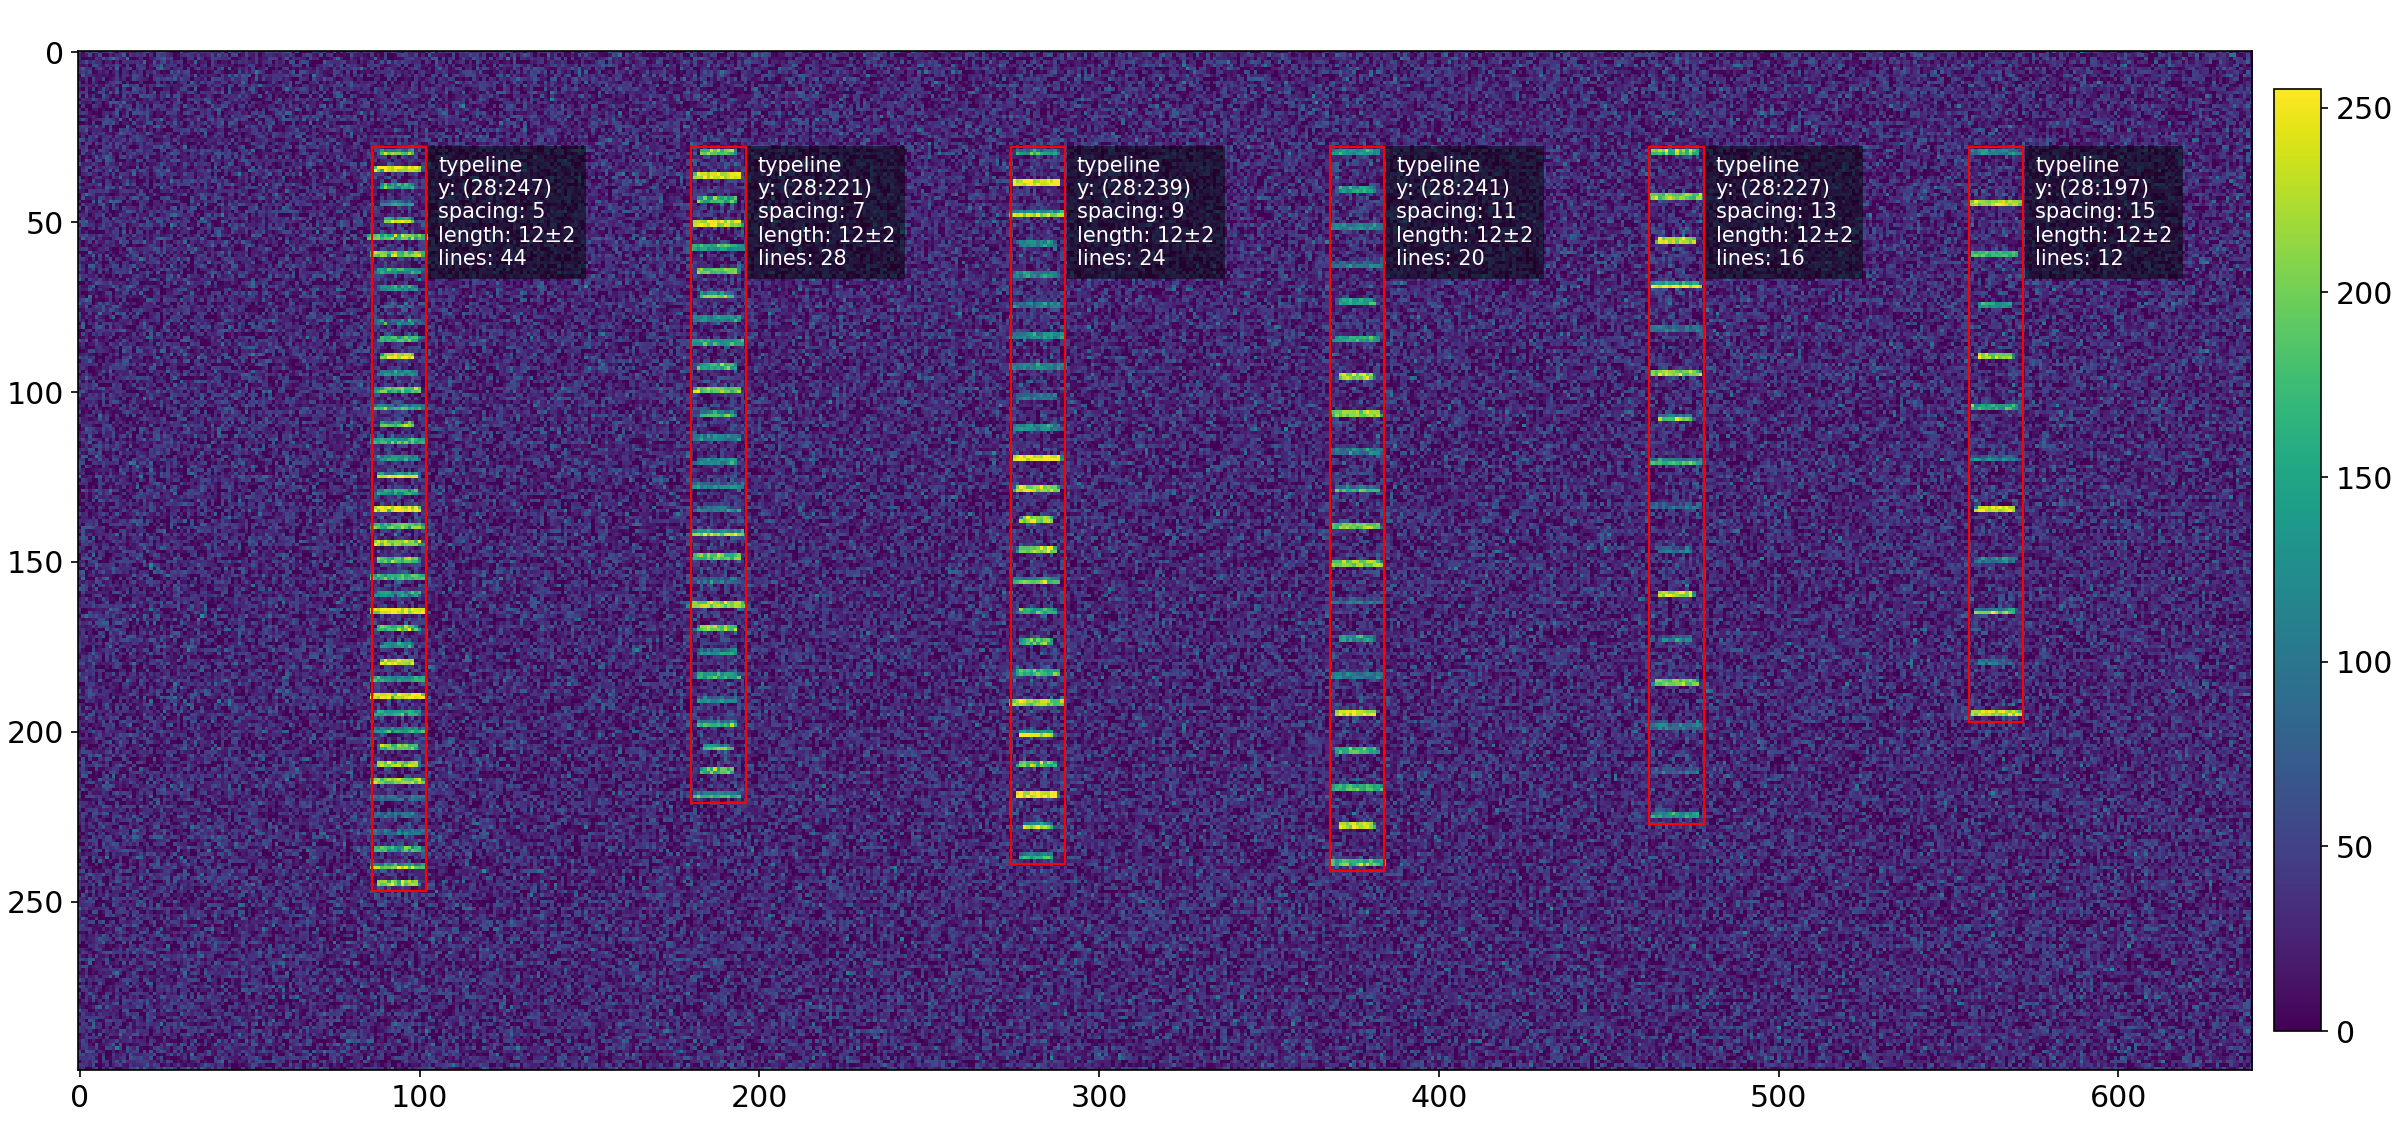
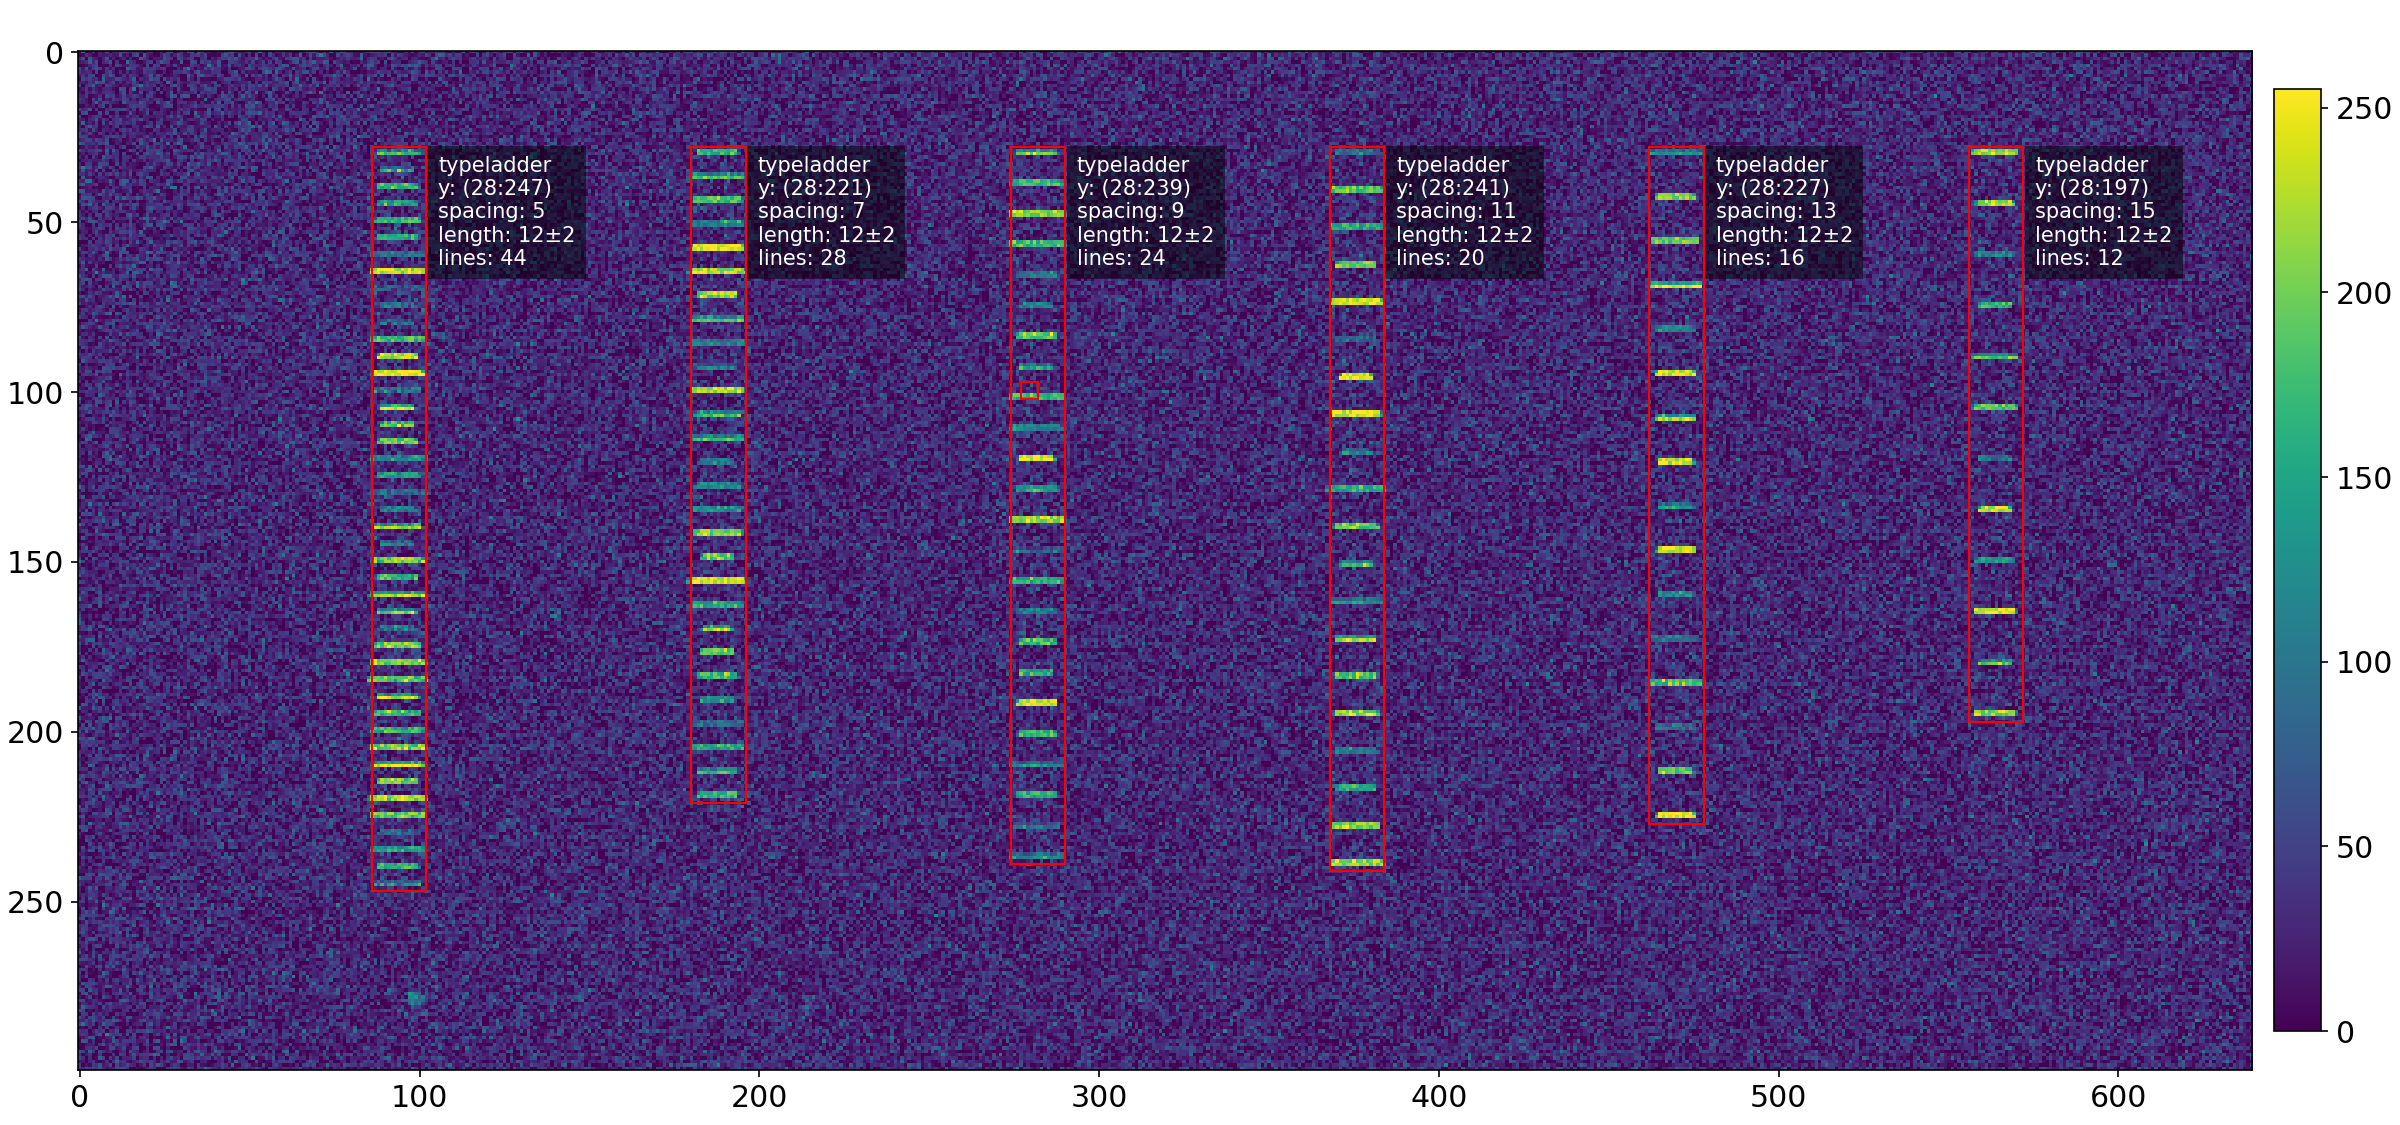
Changement de radius à diamètre des étoiles

diff --git a/ImageSynthetique.py b/ImageSynthetique.py
@@ -1,3 +1,7 @@
+import matplotlib.patches as patches
+import seaborn as sns
+import tensorflow as tf
+import cv2
 import numpy as np
 import matplotlib.pyplot as plt
 params = {'legend.fontsize': 'x-large',
@@ -10,11 +14,7 @@ params = {'legend.fontsize': 'x-large',
           'figure.constrained_layout.use': True}
 
 plt.rcParams.update(params)
-import cv2
-import tensorflow as tf
-import seaborn as sns
-import matplotlib.patches as patches
-
+tf.compat.v1.logging.set_verbosity(tf.compat.v1.logging.ERROR)
 
 class Image:
     """Docstring for Image class, with methods for generating a custom image.
@@ -97,7 +97,8 @@ class Image:
                     tuple(start + length_var), tuple(end - length_var),
                     intensity, thickness)
             # Store line coordinates
-            self.lines[-1][line][:, :] = np.stack((start + length_var, end - length_var))
+            self.lines[-1][line][:, :] = np.stack((start + length_var,
+                                                    end - length_var))
             start[1] += spacing
             end[1] += spacing
         self.lines[-1] //= times
@@ -114,7 +115,7 @@ class Image:
         # self.image = cv2.bitwise_and(self.image, self.image, mask = mask_2)
         self.image = cv2.add(self.image, image_resize)
         self.clip()
-        self.objects.append({'type': 'line',
+        self.objects.append({'type': 'ladder',
                             'coords': (rect_top, rect_bottom),
                             'spacing': spacing // times,
                             'length': length // times,
@@ -122,21 +123,31 @@ class Image:
                             'lines': lines})
         pass
 
-    def add_star(self, center, radius, intensity):
+    def add_star(self, center, diameter, intensity):
         times = 4
-        coords = (tuple(np.array(center) - radius), tuple(np.array(center) + radius))
-        self.objects.append({
-                            'type': 'star',
+        intensity = int(intensity*255)
+        radius = diameter / 2
+        radius_ceil = int(np.ceil(radius))
+        radius_floor = int(np.floor(radius))
+
+        top = tuple(np.array(center) - radius_ceil)
+        bottom = tuple(np.array(center) + radius_floor)
+        coords = (top, bottom)
+        self.objects.append({'type': 'star',
                             'center': center,
-                            'radius': radius,
+                            'diameter': diameter,
                             'coords': coords})
-        big_image = np.zeros((radius*times*4, radius*times*4), dtype='float32')
-        big_image = cv2.circle(big_image, (radius*times*2, radius*times*2), radius*times, intensity, -1)
-        circle = cv2.resize(big_image, (radius*4, radius*4))
-        slice = [el-radius for el in coords[0]] + [el+radius for el in coords[1]]
-        self.image[slice[0]:slice[2], slice[1]:slice[3]] = cv2.add(self.image[slice[0]:slice[2], slice[1]:slice[3]], circle)
+        big_image = np.zeros((2*diameter*times, 2*diameter*times), dtype='float32')
+        big_image = cv2.circle(big_image, (diameter*times, diameter*times),
+                            diameter*times//2, intensity, -1)
+        circle = cv2.resize(big_image, (diameter*2, diameter*2))
+        x_m = coords[0][0] - radius_ceil
+        x_p = coords[1][0] + radius_floor
+        y_m = coords[0][1] - radius_ceil
+        y_p = coords[1][1] + radius_floor
+        self.image[x_m:x_p, y_m:y_p] = cv2.add(self.image[x_m:x_p, y_m:y_p], circle)
         _, segmentation = cv2.threshold(circle, intensity-1, 255, cv2.THRESH_BINARY)
-        self.segmentation[:, :, 1] = segmentation
+        self.segmentation[x_m:x_p, y_m:y_p, 1] = segmentation
         self.clip()
         pass
 
@@ -157,12 +168,21 @@ class Image:
             plt.gca().add_patch(patches.Rectangle(pt, w, h,
                                                 linewidth=1, edgecolor='r',
                                                 facecolor='none'))
+            # Display type
             text = 'type'+ str(obj['type'])+'\n'
-            if obj['type'] == 'line':
+            if obj['type'] == 'ladder':
                 if with_coords:
-                    text += 'y: ('+ str(obj['coords'][0][1])+':'+str(obj['coords'][1][1])+')\n'
+                    # Display minimum vertical coordinate
+                    text += 'y: ('+ str(obj['coords'][0][1])+':'
+                    # and maximum
+                    text += str(obj['coords'][1][1])+')\n'
+                # Display spacing in pixels
                 text += 'spacing: '+str(obj['spacing'])+'\n'
-                text += 'length: '+str(obj['length'])+'±'+str(obj['length_var'])+'\n'
+                # Display length
+                text += 'length: '+str(obj['length'])
+                # Random variation in length (maximum in each sense)
+                text += '±'+str(obj['length_var'])+'\n'
+                # Number of lines
                 text += 'lines: '+str(obj['lines'])
             if obj['type'] == 'star':
                 text = ''
@@ -182,28 +202,24 @@ class Image:
         windows_h = (self.width - window_size) // pad_h +1
         windows_v = (self.height - window_size) // pad_v +1
         crops = np.zeros((windows_v, windows_h, window_size, window_size))
-        labels = np.zeros((windows_v, windows_h))
+        labels = np.zeros((windows_v, windows_h, self.classes))
         segmentation_crops = np.zeros((windows_v, windows_h, window_size, window_size, self.classes))
         number = np.zeros_like(labels)
         max = self.mask.max()
         for j in range(windows_v):
-            y_top = j*pad_v
-            y_bottom = j*pad_v + window_size
+            y_m = j*pad_v
+            y_p = j*pad_v + window_size
             for i in range(windows_h):
-                x_top = i*pad_h
-                x_bottom = i*pad_h + window_size
-                crop = self.image[y_top:y_bottom, x_top:x_bottom]
+                x_m = i*pad_h
+                x_p = i*pad_h + window_size
+                crop = self.image[y_m:y_p, x_m:x_p]
                 crops[j, i, :, :] = crop
-                mask_crop = self.mask[y_top:y_bottom, x_top:x_bottom]
+                mask_crop = self.mask[y_m:y_p, x_m:x_p]
                 # if mask_crop[mask_crop>0].size > threshold:
                 #     labels[j,i] = 1
                 # labels[j,i] = mask_crop[mask_crop>0].size
                 if mask_crop[mask_crop > 0].size:
-                    lower = ([x_top, y_top] < self.lines[-1]).any(axis=1).all(axis=1)
-                    higher = (self.lines[-1] < [x_bottom, y_bottom]).any(axis=1).all(axis=1)
-                    slice = np.logical_and(lower, higher)
-                    number[j, i] = self.lines[-1][slice].shape[0]
-                    segmentation_crop = self.segmentation[y_top:y_bottom, x_top:x_bottom]
+                    segmentation_crop = self.segmentation[y_m:y_p, x_m:x_p]
                     if mask_crop[mask_crop > 0].size > threshold * max:
                         labels[j, i] = 1
                     segmentation_crops[j, i] = segmentation_crop
@@ -273,7 +289,10 @@ class Image:
             pt = (coords[0][0]/self.pad_h, coords[0][1]/self.pad_v)
             h = coords[1][1] - coords[0][1]
             h /= self.pad_v
-            text = 'spacing: '+str(obj['spacing'])
+            if obj['type'] == 'ladder':
+                text = 'spacing: '+str(obj['spacing'])
+            elif obj['type'] == 'star':
+                text = 'diameter: ' + str(obj['diameter'])
             plt.gca().text(pt[0], pt[1]+h, text,
                                     color='white',
                                     horizontalalignment='center',
@@ -302,12 +321,12 @@ class Image:
         predicted = predicted.reshape(crops.shape)
         predicted_image = np.zeros_like(self.image)
         for row in range(predicted.shape[0]):
-            y_top = row*self.window_size
-            y_bottom = (row+1)*self.window_size
+            y_m = row*self.window_size
+            y_p = (row+1)*self.window_size
             for col in range(predicted.shape[1]):
-                x_top = col*self.window_size
-                x_bottom = (col+1)*self.window_size
-                predicted_image[y_top:y_bottom,x_top:x_bottom] = predicted[row,col]
+                x_m = col*self.window_size
+                x_p = (col+1)*self.window_size
+                predicted_image[y_m:y_p,x_m:x_p] = predicted[row,col]
         self.predicted['segm'] = np.where(predicted_image > threshold, 1, 0)
         plt.imshow(self.predicted['segm'])
         plt.imshow(self.segmentation, alpha=0.5)

diff --git a/main.py b/main.py
@@ -9,7 +9,7 @@ os.environ['TF_CPP_MIN_LOG_LEVEL'] = '2'
 
 def timing(part='', start=None):
     if start is not None:
-        print('Time of part ' + part + ':' + str(time.time() - start))
+        print("Part %s took %1.2fs" % (part, (time.time() - start)))
     return time.time()
 
 
@@ -66,6 +66,7 @@ def main():
                             spacing=spacing, length=12,
                             l_var=2, lines=4*(55//spacing))
 
+        test.add_star([280, 100], 5, 0.3)
         test.plot_label()
         plt.savefig(img_dir+'test')
         var_time = timing('test', var_time)
@@ -73,10 +74,11 @@ def main():
         pad_h = 16
         pad_v = 16
         crops, labels, _, segmentation_crops = test.sliding_window(window_size, pad_h, pad_v, threshold)
-        ds_test = ds.crops_to_dataset(crops, labels, shuffle=False)
+        ds_test = ds.crops_to_dataset(crops, labels[:, :, 0], shuffle=False)
         classif_model = ds.classification_model(img_shape)
         classif_model.load_weights('weights/classif/classif')
-        test.calssification_predict(classif_model, ds_test, labels.shape, threshold)
+        test.calssification_predict(classif_model, ds_test, labels[:, :, 0].shape, threshold)
+        var_time = timing('classification prediction', var_time)
         plt.savefig(img_dir+'test_classif')
 
 
